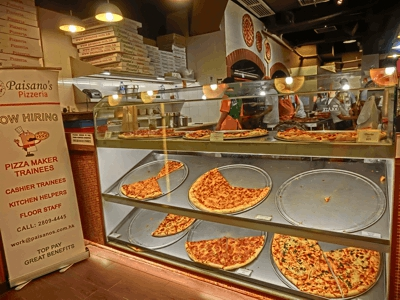
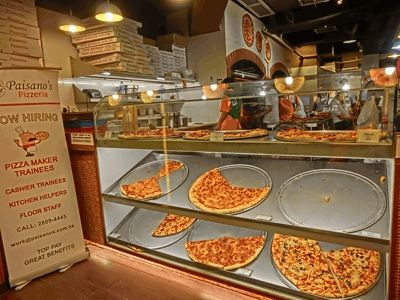
removed google fonts, inlined css, compressed pizzaria picture.

diff --git a/index.html b/index.html
@@ -7,10 +7,8 @@
     <meta name="author" content="Richard Garcia">
     <title>Richard Garcia: Portfolio</title>
 
-    <!-- Hmm, what is the impact of web fonts on speed? Measure it... -->
-    <link href='https://fonts.googleapis.com/css?family=Open+Sans:400,700' rel='stylesheet' type='text/css'>
+    <style type="text/css">#footer,#hero{border-top:1px solid #ccc}#body{margin:0;font-size:14px;line-height:1.61;font-weight:400;font-family:'Open Sans',sans-serif;color:#333}a:visited{color:#61C}a:focus{outline:dotted thin}a:active,a:hover{color:#c00;outline:0}ul{margin:1em 0;padding:0 0 0 20px}img{border:0;max-width:100%}#container,#footer,#header{max-width:45em;margin:0 auto}#header{padding:0 .5em;color:#C90B0B}#header #profile_pic{border-radius:40px;float:left;margin:0 1em 0 0}#header #title{font-size:1.5em;font-weight:700;padding:0 5em 0 0}#headline{font-size:1em;font-weight:400;margin:-1.5em 0 2.5em}#hero{padding:2em;background-color:#f8f8f8;font-size:1.2em;border-bottom:1px solid #ccc}#main_content{padding:1em}#main_content li{list-style-type:none;font-size:1.1em}li .thumb{float:left;padding-right:1em}li p{font-size:.9em;font-style:italic}#footer{padding:0 .5em}#footer #crp-stats{float:right;font-style:italic}</style>
 
-    <link href="css/style-min.css" rel="stylesheet">
     <link href="css/style-print.css" rel="stylesheet" media="print">
 
     <script async src="js/goog.js"></script>

diff --git a/object-oriented-javascript.html b/object-oriented-javascript.html
@@ -7,8 +7,8 @@
     <meta name="author" content="Richard Garcia">
     <title>Object-Oriented JavaScript</title>
 
-    <link href='https://fonts.googleapis.com/css?family=Open+Sans:400,700' rel='stylesheet' type='text/css'>
-    <link href="css/style.css" rel="stylesheet">
+    <style type="text/css">#footer,#hero{border-top:1px solid #ccc}#body{margin:0;font-size:14px;line-height:1.61;font-weight:400;font-family:'Open Sans',sans-serif;color:#333}a:visited{color:#61C}a:focus{outline:dotted thin}a:active,a:hover{color:#c00;outline:0}ul{margin:1em 0;padding:0 0 0 20px}img{border:0;max-width:100%}#container,#footer,#header{max-width:45em;margin:0 auto}#header{padding:0 .5em;color:#C90B0B}#header #profile_pic{border-radius:40px;float:left;margin:0 1em 0 0}#header #title{font-size:1.5em;font-weight:700;padding:0 5em 0 0}#headline{font-size:1em;font-weight:400;margin:-1.5em 0 2.5em}#hero{padding:2em;background-color:#f8f8f8;font-size:1.2em;border-bottom:1px solid #ccc}#main_content{padding:1em}#main_content li{list-style-type:none;font-size:1.1em}li .thumb{float:left;padding-right:1em}li p{font-size:.9em;font-style:italic}#footer{padding:0 .5em}#footer #crp-stats{float:right;font-style:italic}</style>
+
     <link href="css/style-print.css" rel="stylesheet" media="print">
 
     <script async src="js/goog.js"></script>

diff --git a/browser-rendering-optimization.html b/browser-rendering-optimization.html
@@ -7,8 +7,8 @@
     <meta name="author" content="Richard Garcia">
     <title>Browser Rendering</title>
 
-    <link href='https://fonts.googleapis.com/css?family=Open+Sans:400,700' rel='stylesheet' type='text/css'>
-    <link href="css/style.css" rel="stylesheet">
+    <style type="text/css">#footer,#hero{border-top:1px solid #ccc}#body{margin:0;font-size:14px;line-height:1.61;font-weight:400;font-family:'Open Sans',sans-serif;color:#333}a:visited{color:#61C}a:focus{outline:dotted thin}a:active,a:hover{color:#c00;outline:0}ul{margin:1em 0;padding:0 0 0 20px}img{border:0;max-width:100%}#container,#footer,#header{max-width:45em;margin:0 auto}#header{padding:0 .5em;color:#C90B0B}#header #profile_pic{border-radius:40px;float:left;margin:0 1em 0 0}#header #title{font-size:1.5em;font-weight:700;padding:0 5em 0 0}#headline{font-size:1em;font-weight:400;margin:-1.5em 0 2.5em}#hero{padding:2em;background-color:#f8f8f8;font-size:1.2em;border-bottom:1px solid #ccc}#main_content{padding:1em}#main_content li{list-style-type:none;font-size:1.1em}li .thumb{float:left;padding-right:1em}li p{font-size:.9em;font-style:italic}#footer{padding:0 .5em}#footer #crp-stats{float:right;font-style:italic}</style>
+
     <link href="css/style-print.css" rel="stylesheet" media="print">
 
     <script async src="js/goog.js"></script>

diff --git a/project-webperf.html b/project-webperf.html
@@ -7,8 +7,7 @@
     <meta name="author" content="Richard Garcia">
     <title>Web Performance</title>
 
-    <link href='https://fonts.googleapis.com/css?family=Open+Sans:400,700' rel='stylesheet' type='text/css'>
-    <link href="css/style.css" rel="stylesheet">
+    <style type="text/css">#footer,#hero{border-top:1px solid #ccc}#body{margin:0;font-size:14px;line-height:1.61;font-weight:400;font-family:'Open Sans',sans-serif;color:#333}a:visited{color:#61C}a:focus{outline:dotted thin}a:active,a:hover{color:#c00;outline:0}ul{margin:1em 0;padding:0 0 0 20px}img{border:0;max-width:100%}#container,#footer,#header{max-width:45em;margin:0 auto}#header{padding:0 .5em;color:#C90B0B}#header #profile_pic{border-radius:40px;float:left;margin:0 1em 0 0}#header #title{font-size:1.5em;font-weight:700;padding:0 5em 0 0}#headline{font-size:1em;font-weight:400;margin:-1.5em 0 2.5em}#hero{padding:2em;background-color:#f8f8f8;font-size:1.2em;border-bottom:1px solid #ccc}#main_content{padding:1em}#main_content li{list-style-type:none;font-size:1.1em}li .thumb{float:left;padding-right:1em}li p{font-size:.9em;font-style:italic}#footer{padding:0 .5em}#footer #crp-stats{float:right;font-style:italic}</style>
     <link href="css/style-print.css" rel="stylesheet" media="print">
 
     <script async src="js/goog.js"></script>
